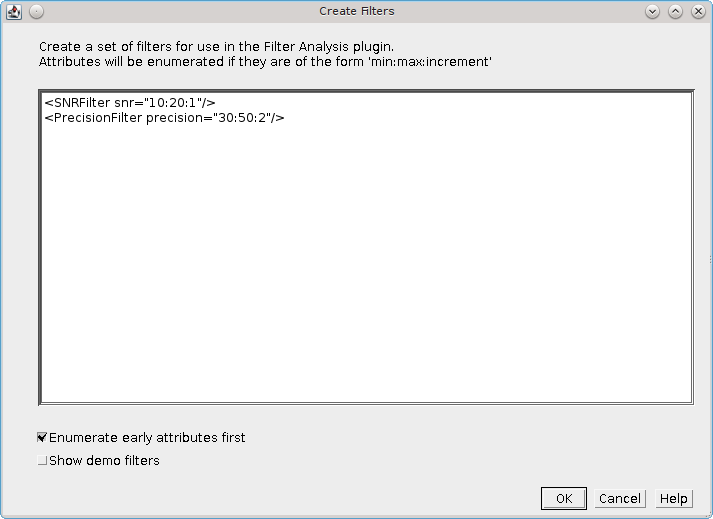
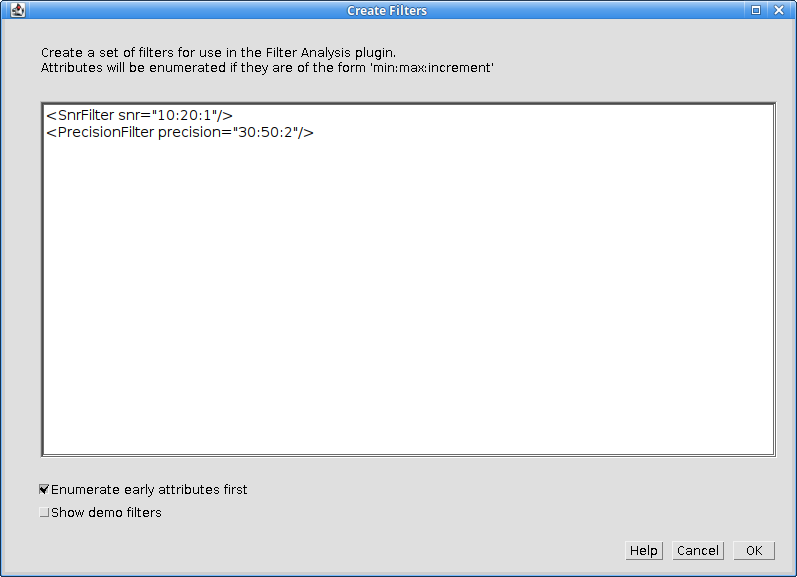
Create Filters doc updates

Changed region(s): [[0.0, 0.0, 1.0, 1.0]]

diff --git a/docs/analysis_plugins.rst b/docs/analysis_plugins.rst
@@ -2623,7 +2623,7 @@ The output filter set will be named using the name of the filter. For example:
 
 .. code-block:: xml
 
-    <SNRFilter snr="10:20:2"/>
+    <SnrFilter snr="10:20:2"/>
 
 Becomes:
 
@@ -2631,12 +2631,12 @@ Becomes:
 
     <FilterSet name="SNR">
       <filters class="linked-list">
-        <SNRFilter snr="10"/>
-        <SNRFilter snr="12"/>
-        <SNRFilter snr="14"/>
-        <SNRFilter snr="16"/>
-        <SNRFilter snr="18"/>
-        <SNRFilter snr="20"/>
+        <SnrFilter snr="10"/>
+        <SnrFilter snr="12"/>
+        <SnrFilter snr="14"/>
+        <SnrFilter snr="16"/>
+        <SnrFilter snr="18"/>
+        <SnrFilter snr="20"/>
       </filters>
     </FilterSet>
 
